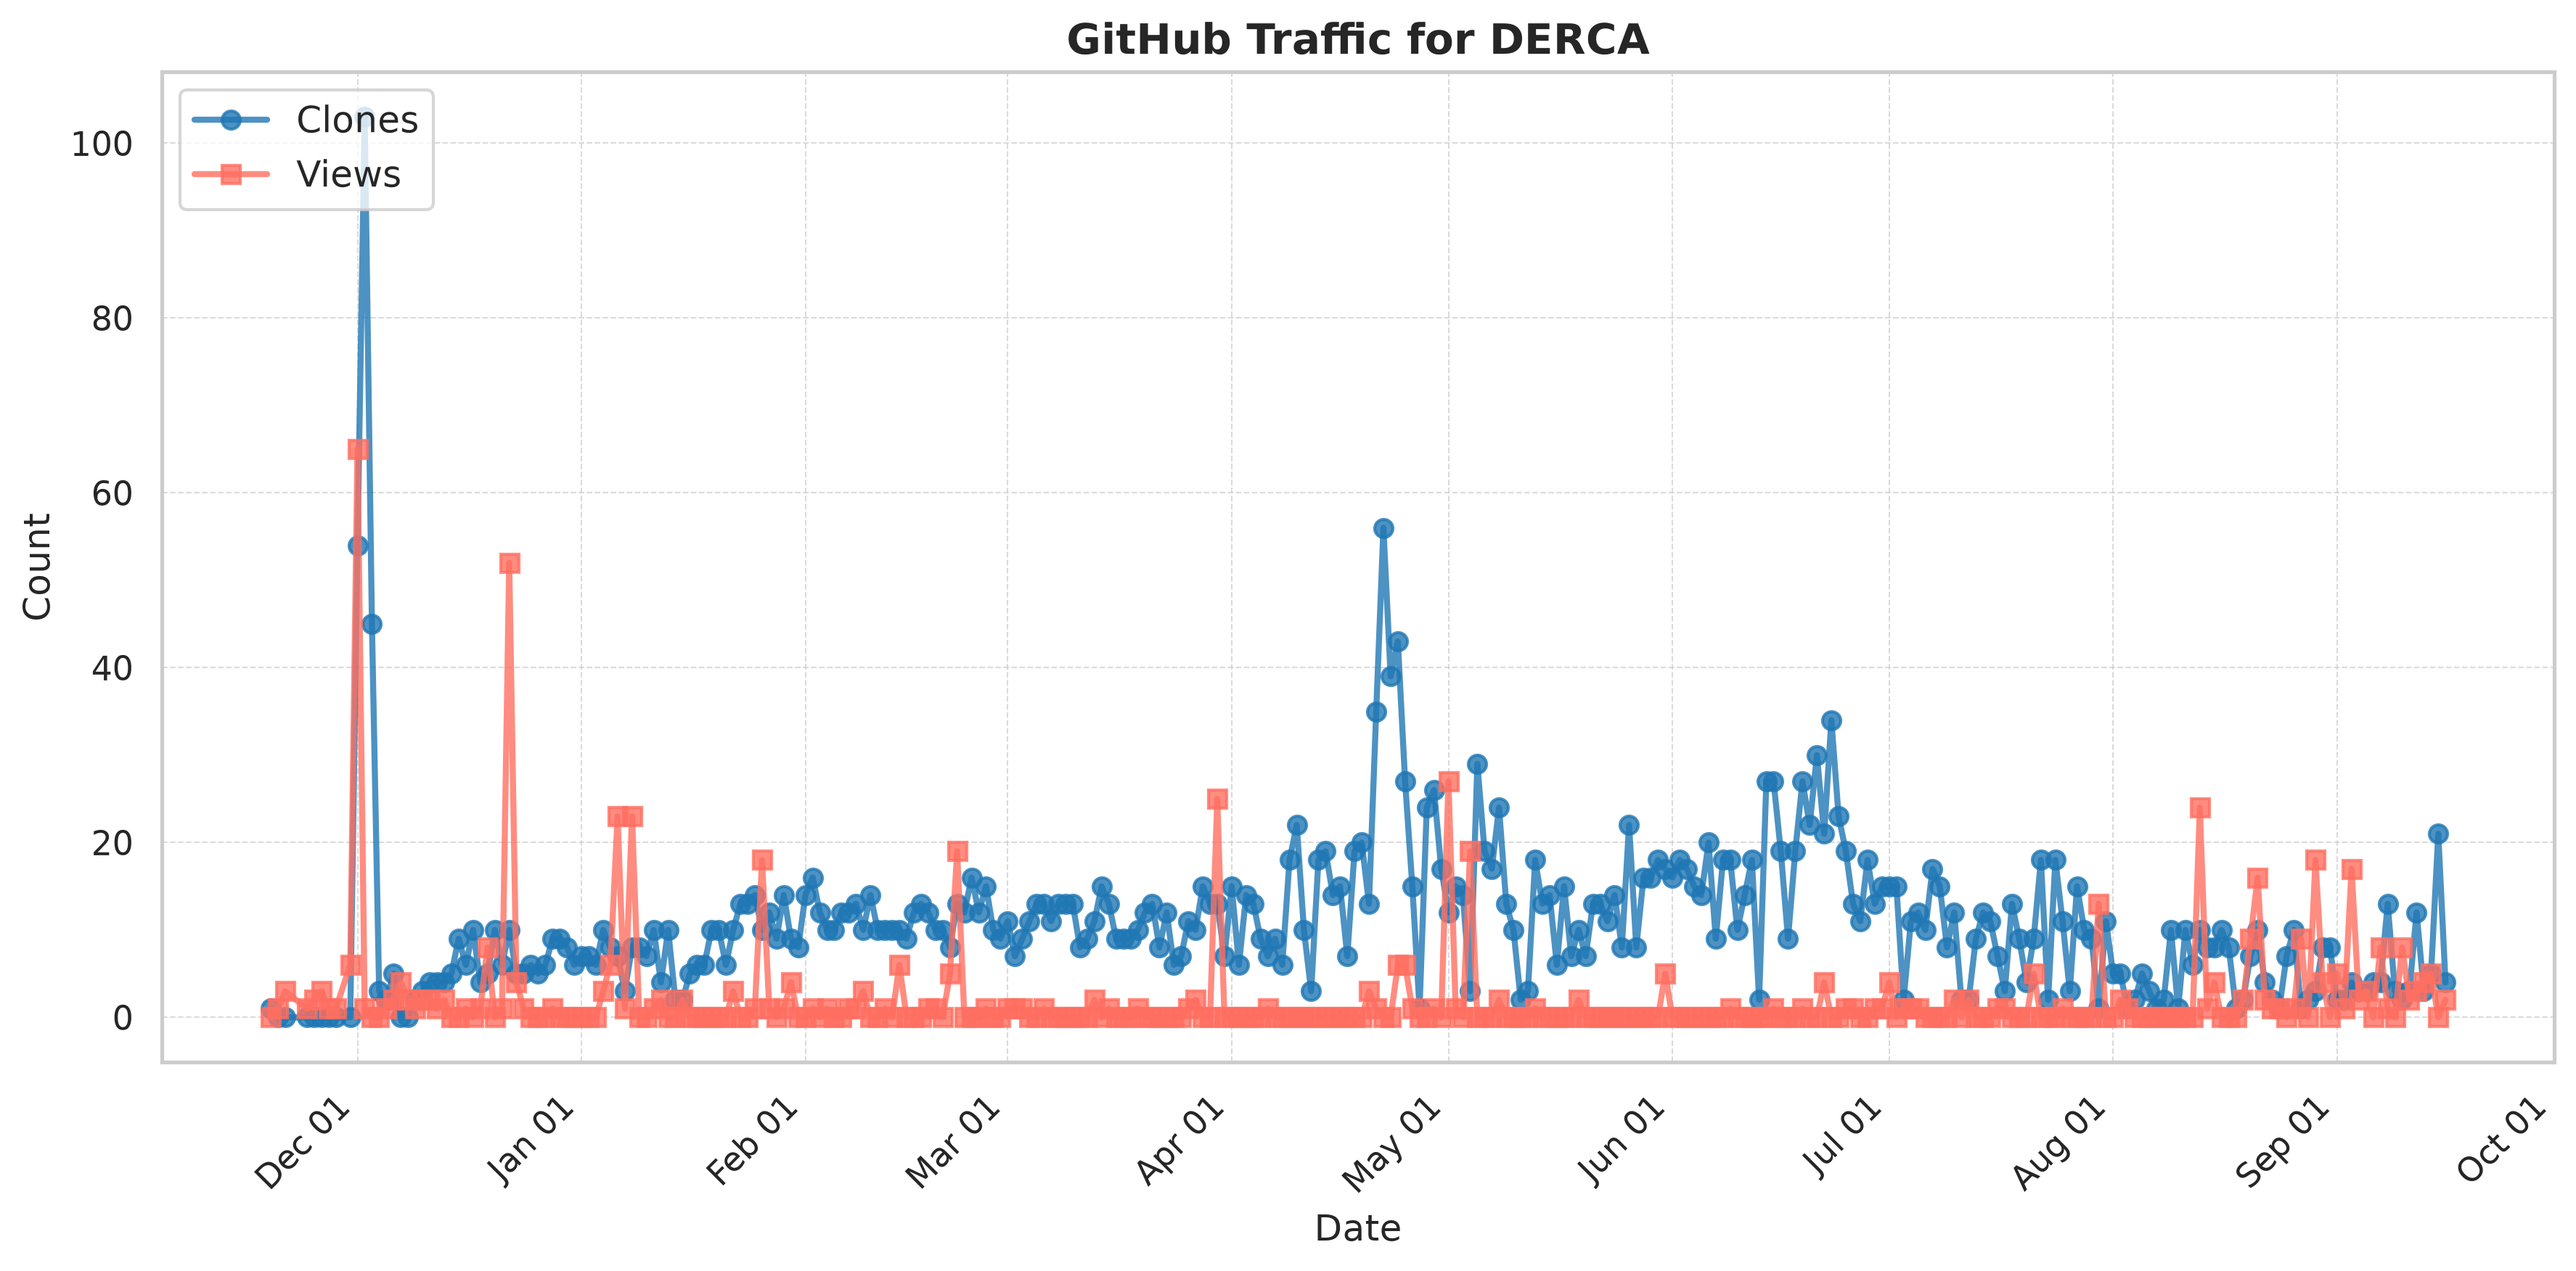
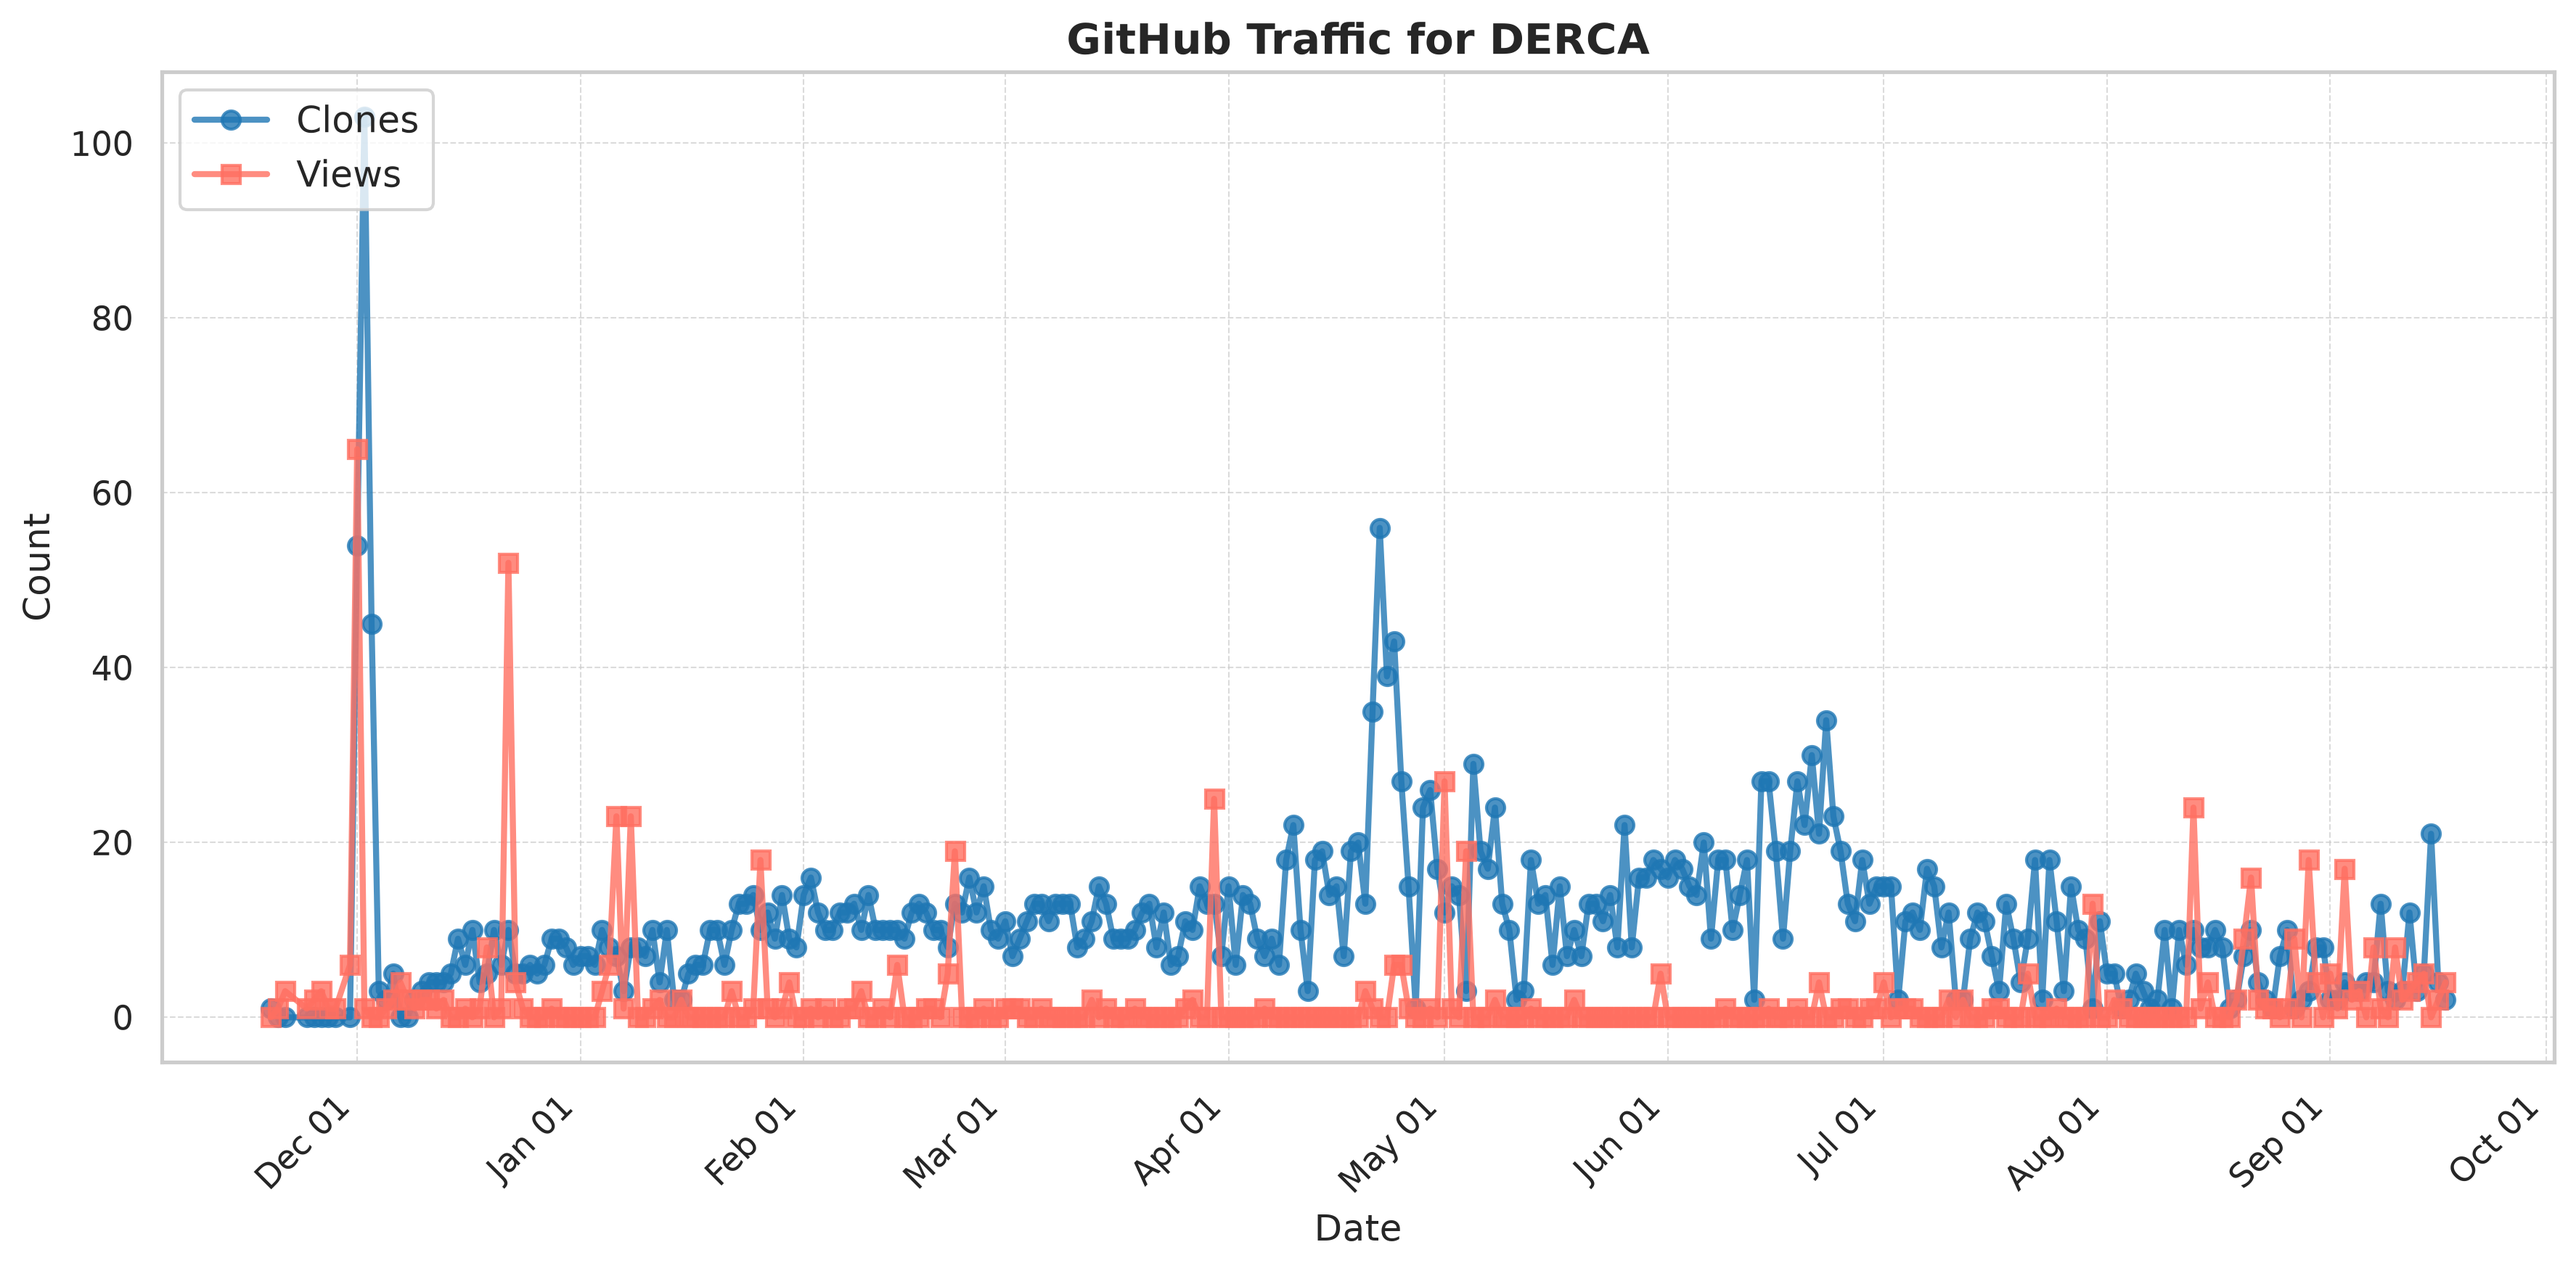
Auto-generated traffic_plot.png and plot_data.csv

diff --git a/README.md b/README.md
@@ -14,8 +14,8 @@ Faculty Collaborators: Prof. Alex Jones (Syracuse University), Prof. Zheng Dong(
 
 # 🚀 Thank You for Using DERCA!!
 **Your support and growing engagement inspire us to continually improve and enhance DERCA**
-- **Downloads since 1 Dec 2025:** <!--CLONES-->3294<!--/CLONES-->
-- **Views: since 1 Dec 2025:** <!--VIEWS-->611<!--/VIEWS-->
+- **Downloads since 1 Dec 2025:** <!--CLONES-->3296<!--/CLONES-->
+- **Views: since 1 Dec 2025:** <!--VIEWS-->615<!--/VIEWS-->
 <p align="center">
   <picture>
     <img alt="DERCA" src="https://github.com/arc-research-lab/DERCA/blob/main/assets/DERCA_traffic_plot.png" width=90%>
